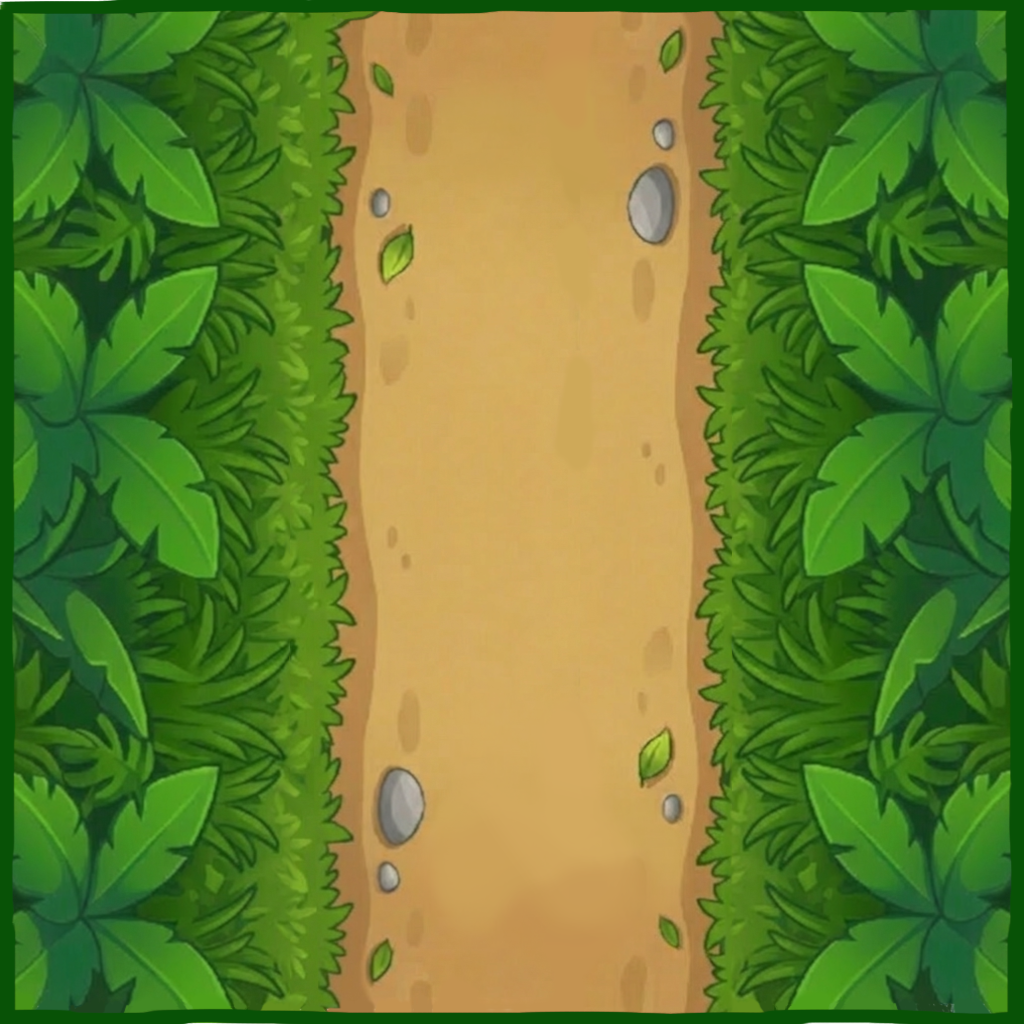
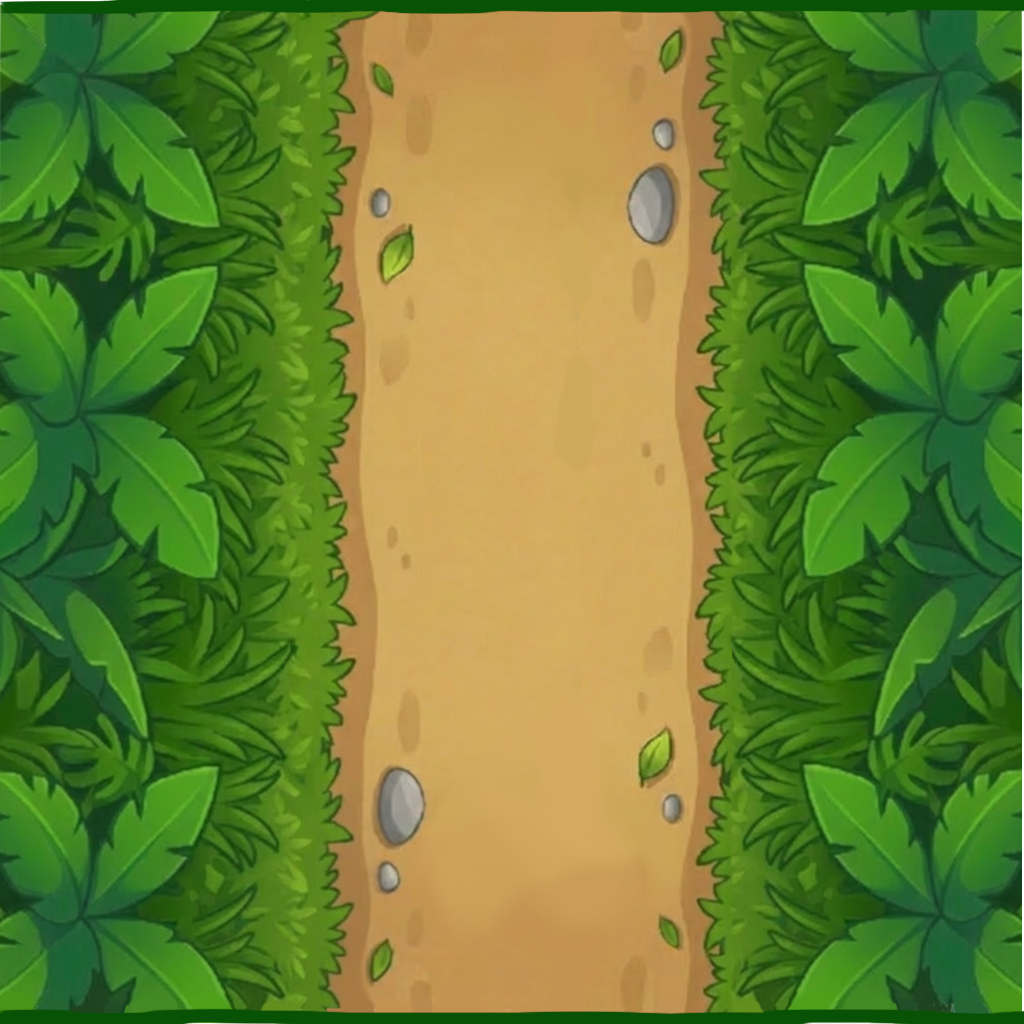
[FIX] Cambio de color de las cajas a azul en vez de gris

Changed region(s): [[0.9688, 0.0, 1.0, 1.0], [0.0, 0.0, 0.0312, 1.0]]

diff --git a/src/hooks/useEditorMazos.ts b/src/hooks/useEditorMazos.ts
@@ -1,4 +1,3 @@
-// src/hooks/useEditorMazos.ts
 'use client';
 import { useState, useEffect } from 'react';
 import { useRouter } from 'next/navigation';
@@ -13,11 +12,14 @@ export const useEditorMazos = (email: string) => {
   const [nombreMazo, setNombreMazo] = useState('');
   const [isLoading, setIsLoading] = useState(true);
   const [isSaving, setIsSaving] = useState(false);
+  const [errorMazo, setErrorMazo] = useState<{ abierto: boolean; mensaje: string }>({
+    abierto: false,
+    mensaje: ''
+  });
 
   const limiteMazo = 10;
-  const maxCopiasPorCarta = 2; // Regla del juego: Máximo 2 iguales
+  const maxCopiasPorCarta = 2;
 
-  // Cargar las cartas al iniciar
   useEffect(() => {
     if (!email) return;
     CardsService.getUserCards(email)
@@ -25,60 +27,53 @@ export const useEditorMazos = (email: string) => {
       .finally(() => setIsLoading(false));
   }, [email]);
 
-  // Cuántas copias de esta carta hay en el mazo
   const getCantidad = (nombre: string) => cartasSeleccionadas.filter(c => c === nombre).length;
 
-  // Añadir una copia (+)
+  // Función para abrir el modal
+  const lanzarError = (msj: string) => setErrorMazo({ abierto: true, mensaje: msj });
+  // Función para cerrar el modal
+  const cerrarError = () => setErrorMazo({ abierto: false, mensaje: '' });
+
   const addCarta = (nombre: string) => {
     const cantidadActual = getCantidad(nombre);
-
-    if (cantidadActual >= maxCopiasPorCarta) return; // Ya tiene el máximo de esta carta
+    if (cantidadActual >= maxCopiasPorCarta) return; 
     
     if (cartasSeleccionadas.length >= limiteMazo) {
-      alert(`¡El mazo ya tiene el máximo de ${limiteMazo} cartas!`);
+      lanzarError(`¡El mazo ya tiene el máximo de ${limiteMazo} cartas!`); // Reemplazo de alert
       return;
     }
-    
     setCartasSeleccionadas([...cartasSeleccionadas, nombre]);
   };
 
-  // Quitar una copia (-)
   const removeCarta = (nombre: string) => {
     const index = cartasSeleccionadas.indexOf(nombre);
     if (index > -1) {
       const nuevasCartas = [...cartasSeleccionadas];
-      nuevasCartas.splice(index, 1); // Quitamos solo la primera copia que encontremos
+      nuevasCartas.splice(index, 1);
       setCartasSeleccionadas(nuevasCartas);
     }
   };
 
-  // Guardar en el backend
   const guardarMazo = async () => {
-    if (!nombreMazo.trim()) return alert('Por favor, ponle un nombre a tu mazo.');
-    if (cartasSeleccionadas.length === 0) return alert('El mazo no puede estar vacío.');
+    if (!nombreMazo.trim()) return lanzarError('Por favor, ponle un nombre a tu mazo.');
+    if (cartasSeleccionadas.length === 0) return lanzarError('El mazo no puede estar vacío.');
 
     try {
       setIsSaving(true);
       await DecksService.createDeck(email, nombreMazo, cartasSeleccionadas);
-      router.push('/juego/mazos'); // Volvemos a "Mis Mazos" al terminar
+      router.push('/juego/mazos');
     } catch (err: any) {
-      alert(err.message || 'Error al guardar el mazo');
+      lanzarError(err.message || 'Error al guardar el mazo');
     } finally {
       setIsSaving(false);
     }
   };
 
   return {
-    cartasDisponibles, 
-    cartasSeleccionadas,
-    nombreMazo, 
-    setNombreMazo,
-    limiteMazo, 
-    isLoading, 
-    isSaving,
-    getCantidad, 
-    addCarta, 
-    removeCarta, 
-    guardarMazo
+    cartasDisponibles, cartasSeleccionadas,
+    nombreMazo, setNombreMazo,
+    limiteMazo, isLoading, isSaving,
+    getCantidad, addCarta, removeCarta, guardarMazo,
+    errorMazo, cerrarError // 
   };
 };

diff --git a/src/app/juego/mazos/page.tsx b/src/app/juego/mazos/page.tsx
@@ -13,16 +13,16 @@ export default function MisMazosPage() {
   if (error) return <div className="text-red-500 text-center mt-10 w-full">Error: {error}</div>;
 
   return (
-    <main className="w-full h-full flex flex-col p-4 md:p-8 overflow-y-auto">  
+    <main className="w-full h-full flex flex-col p-4 md:p-8 overflow-y-auto custom-scroll">  
       <div className="flex items-center justify-center text-white text-3xl font-bold shrink-0 mb-6">
         <h1 className="text-center">Mis mazos ({decks.length}/8)</h1>       
       </div>
 
-      <div className="flex justify-start w-full shrink-0 mb-6">
+      <div className="flex justify-start w-full shrink-0 mb-6 ">
         {decks.length < 8 && (
           <Link 
             href="/juego/mazos/editarmazos" 
-            className="flex rounded-lg bg-gray-700 font-sans font-bold w-60 h-14 items-center justify-center text-white hover:bg-gray-600 gap-3 shadow-md transition-colors group"
+            className="flex rounded-lg bg-[#1a237e] border-amber-400 border-2 font-sans font-bold w-60 h-14 items-center justify-center text-white hover:bg-[#1a237e]/80 gap-3 shadow-md transition-colors group"
           >  
             <div className="border-2 border-white/70 rounded-full w-6 h-6 flex items-center justify-center text-xl font-normal leading-none pb-[2px]">
               +

diff --git a/src/app/juego/mazos/editarmazos/page.tsx b/src/app/juego/mazos/editarmazos/page.tsx
@@ -1,6 +1,7 @@
 // src/app/juego/mazos/editarmazos/page.tsx
 'use client';
 import { DisplayCarta } from "@/components/interfaz/DisplayCarta";
+import ErrorMazo from "@/components/interfaz/ErrorMazo";
 import { useEditorMazos } from "@/hooks/useEditorMazos";
 
 export default function EditorMazosPage() {
@@ -13,7 +14,8 @@ export default function EditorMazosPage() {
     nombreMazo, setNombreMazo,
     limiteMazo,
     isLoading, isSaving,
-    getCantidad, addCarta, removeCarta, guardarMazo
+    getCantidad, addCarta, removeCarta, guardarMazo,
+    errorMazo, cerrarError
   } = useEditorMazos(emailUsuario);
 
   if (isLoading) {
@@ -25,8 +27,17 @@ export default function EditorMazosPage() {
   }
 
   return (
-    <main className="w-full h-full flex flex-col p-4 md:p-8 overflow-y-auto bg-[#0a0f2c]">
+    <main className="w-full h-full flex flex-col p-4 md:p-8 overflow-y-auto bg-[#0a0f2c] custom-scroll">
       
+      {errorMazo.abierto && (
+        <ErrorMazo 
+          mensaje={errorMazo.mensaje} 
+          onClose={cerrarError} 
+        />
+      )}
+
+
+
       {/* CABECERA: Título, Input y Contador */}
       <div className="flex flex-col items-center justify-center text-white shrink-0 mb-12 gap-4">
         <h1 className="text-4xl font-bold tracking-tight">Editor de Mazos</h1>

diff --git a/src/components/interfaz/ErrorMazo.tsx b/src/components/interfaz/ErrorMazo.tsx
@@ -1,0 +1,28 @@
+// src/components/interfaz/ErrorMazo.tsx
+interface ErrorMazoProps {
+  mensaje: string;
+  onClose: () => void;
+}
+
+export default function ErrorMazo({ mensaje, onClose }: ErrorMazoProps) {
+  return (
+    <div className="fixed inset-0 z-50 flex items-center justify-center p-4 bg-black/70 backdrop-blur-sm">
+      <div className="bg-[#121943] border-2 border-red-500 rounded-2xl p-8 max-w-sm w-full shadow-[0_0_30px_rgba(239,68,68,0.3)] flex flex-col items-center gap-6 animate-in fade-in zoom-in duration-200">
+        <div className="w-16 h-16 bg-red-500/20 rounded-full flex items-center justify-center border-2 border-red-500">
+          <span className="text-red-500 text-4xl font-bold">!</span>
+        </div>
+        
+        <p className="text-white text-center text-xl font-medium">
+          {mensaje}
+        </p>
+
+        <button
+          onClick={onClose}
+          className="w-full bg-red-600 hover:bg-red-500 text-white font-bold py-3 rounded-xl transition-colors shadow-lg active:scale-95"
+        >
+          OK
+        </button>
+      </div>
+    </div>
+  );
+}

diff --git a/src/app/juego/logros/page.tsx b/src/app/juego/logros/page.tsx
@@ -16,14 +16,14 @@ export default function Home() {
   }
 
   return (
-    <main className="w-full h-full flex flex-col p-4 md:p-8 overflow-y-auto">
-      <div className="flex items-center justify-center text-white text-3xl font-bold shrink-0 mb-8">
+    <main className="w-full h-full flex flex-col p-4 md:p-8 overflow-y-auto ">
+      <div className="flex items-center justify-center text-white text-3xl font-bold shrink-0 mb-8 ">
         <h1>Logros ({logros.length})</h1>
       </div>
 
-      <div className="flex flex-col gap-4">
+      <div className="flex flex-col gap-4 ">
         {logros.length === 0 ? (
-          <p className="text-gray-400 mt-4 text-center text-lg">No hay logros disponibles.</p>
+          <p className="text-gray-400 mt-4 text-center text-lg ">No hay logros disponibles.</p>
         ) : (
           logros.map((logro) => (
             <SlotLogro

diff --git a/src/components/interfaz/DesplegableTienda.tsx b/src/components/interfaz/DesplegableTienda.tsx
@@ -10,7 +10,7 @@ interface DesplegableTiendaProps {
 const DesplegableTienda = (props: DesplegableTiendaProps) => {
   const [abierto, setAbierto] = useState(props.estaAbierto);
   return (
-    <div className="bg-gray-800 text-white p-4 rounded-lg border-amber-500 border-2">
+    <div className="bg-[#1a237e] text-white p-4 rounded-lg border-amber-500 border-2">
         <div className="flex items-center justify-between cursor-pointer" onClick={() => setAbierto(!abierto)}>
             <h1 className="text-xl">{props.nombreSeccion}</h1>
             <button 

diff --git a/src/app/juego/perfil/page.tsx b/src/app/juego/perfil/page.tsx
@@ -32,7 +32,7 @@ export default function Perfil() {
         </h1>
       </div>
 
-      <div className="relative bg-gray-800 border-2 border-yellow-400 rounded-4xl p-8 shadow-xl flex flex-col gap-8 max-w-5xl mx-auto w-full">
+      <div className="relative bg-[#1a237e] border-2 border-yellow-400 rounded-4xl p-8 shadow-xl flex flex-col gap-8 max-w-5xl mx-auto w-full">
         
         <div className="absolute top-6 right-8 text-2xl font-bold text-white">
           {perfil.victorias}W/{perfil.derrotas}L

diff --git a/src/app/juego/tienda/page.tsx b/src/app/juego/tienda/page.tsx
@@ -31,7 +31,7 @@ export default function Tienda() {
         <h1 className="text-center font-bold"> 
           Tienda
         </h1>
-        <div className="absolute right-0 w-40 h-16 bg-gray-800 rounded-2xl flex items-center justify-center text-xl shadow-md">
+        <div className="absolute right-0 w-40 h-16 bg-[#1a237e] border-amber-400 border-2 rounded-2xl flex items-center justify-center text-xl shadow-md">
           <span>Sep logo {tienda.sepDisponible}</span>
         </div>
       </div>

diff --git a/src/components/interfaz/SlotLogro.tsx b/src/components/interfaz/SlotLogro.tsx
@@ -11,7 +11,7 @@ interface SlotLogroProps {
 export const SlotLogro = (props: SlotLogroProps) => {
   return (
     <CajaLista>
-        <div className='flex text-white justify-between items-center'>
+        <div className='flex text-white justify-between items-center '>
             <div className='flex flex-col gap-4'>
                 <h2 className='text-2xl font-bold'>{props.nombreLogro}</h2>
                 <p className='text-xl'>{props.descripciónLogro}</p>

diff --git a/src/components/interfaz/CajaLista.tsx b/src/components/interfaz/CajaLista.tsx
@@ -5,7 +5,7 @@ import React from 'react'
 
 export const CajaLista = ({ children }: { children: React.ReactNode }) => {
   return (
-    <div className="bg-gray-700 border-amber-400 border-2 rounded-lg shadow-md p-4 mb-4">
+    <div className="bg-[#1a237e] border-amber-400 border-2 rounded-lg shadow-md p-4 mb-4">
          {/* Aquí va el contenido específico de cada lista, como partidas o mazos */}
          {children}
     </div>
